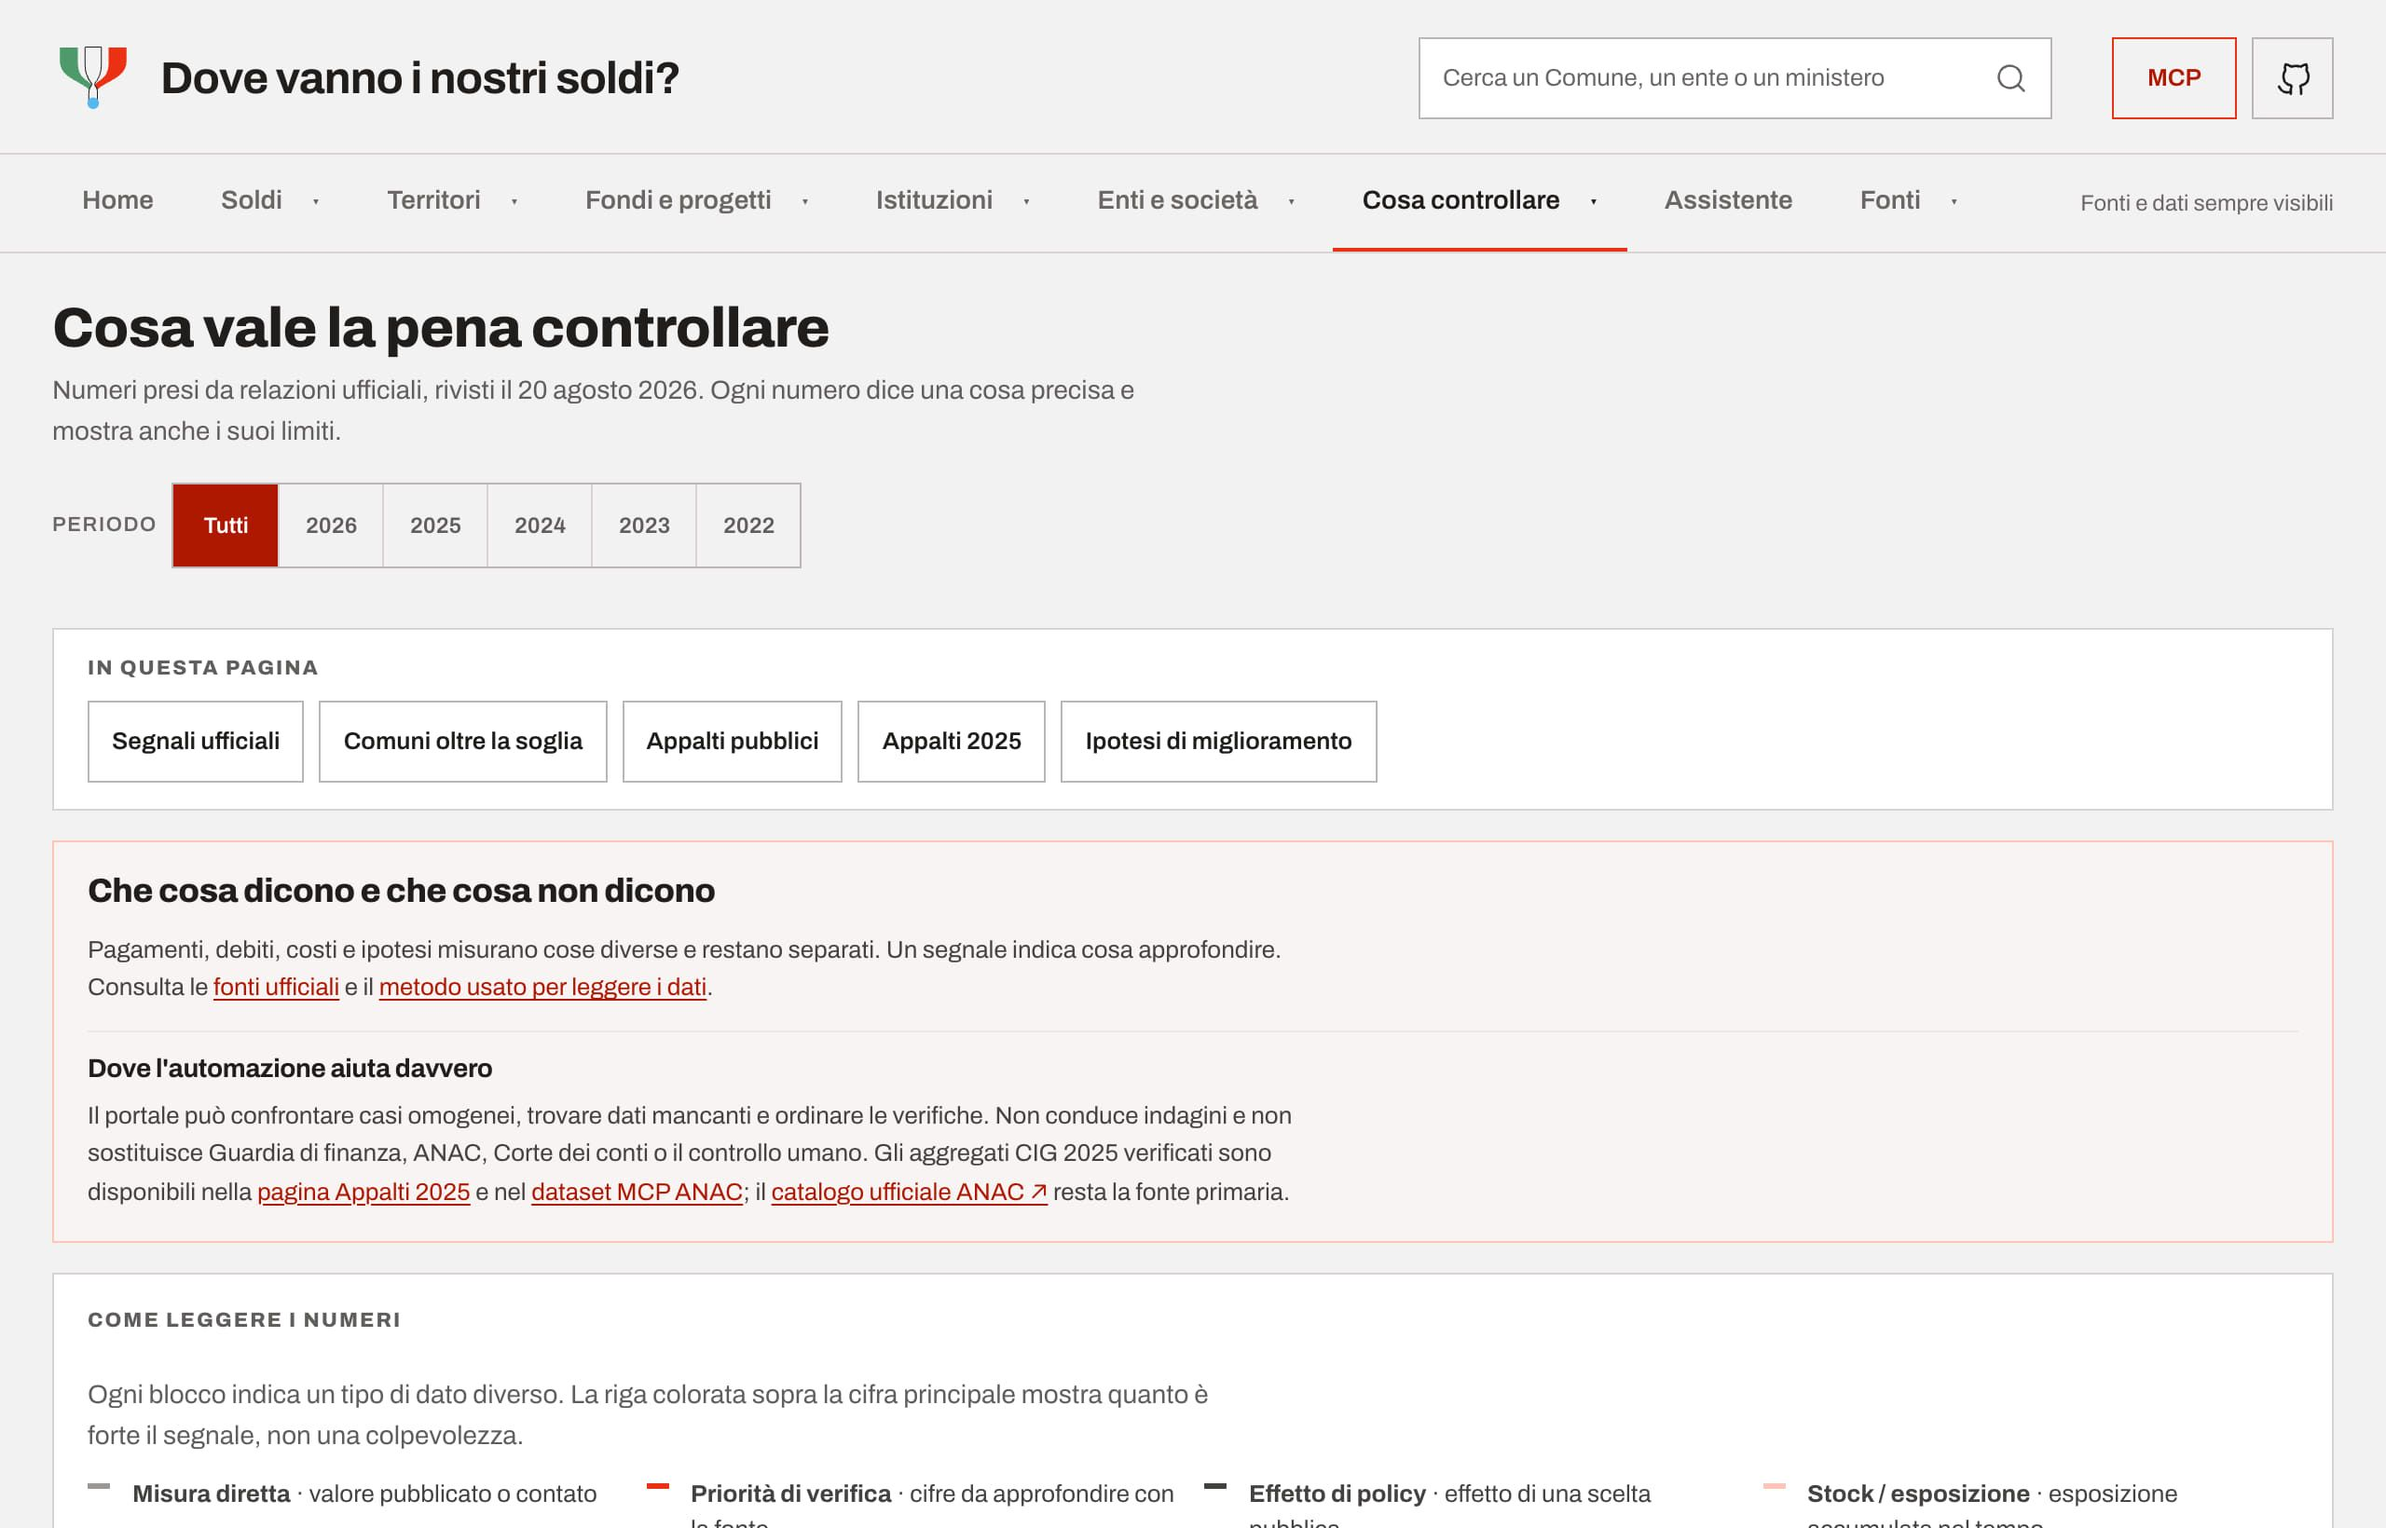
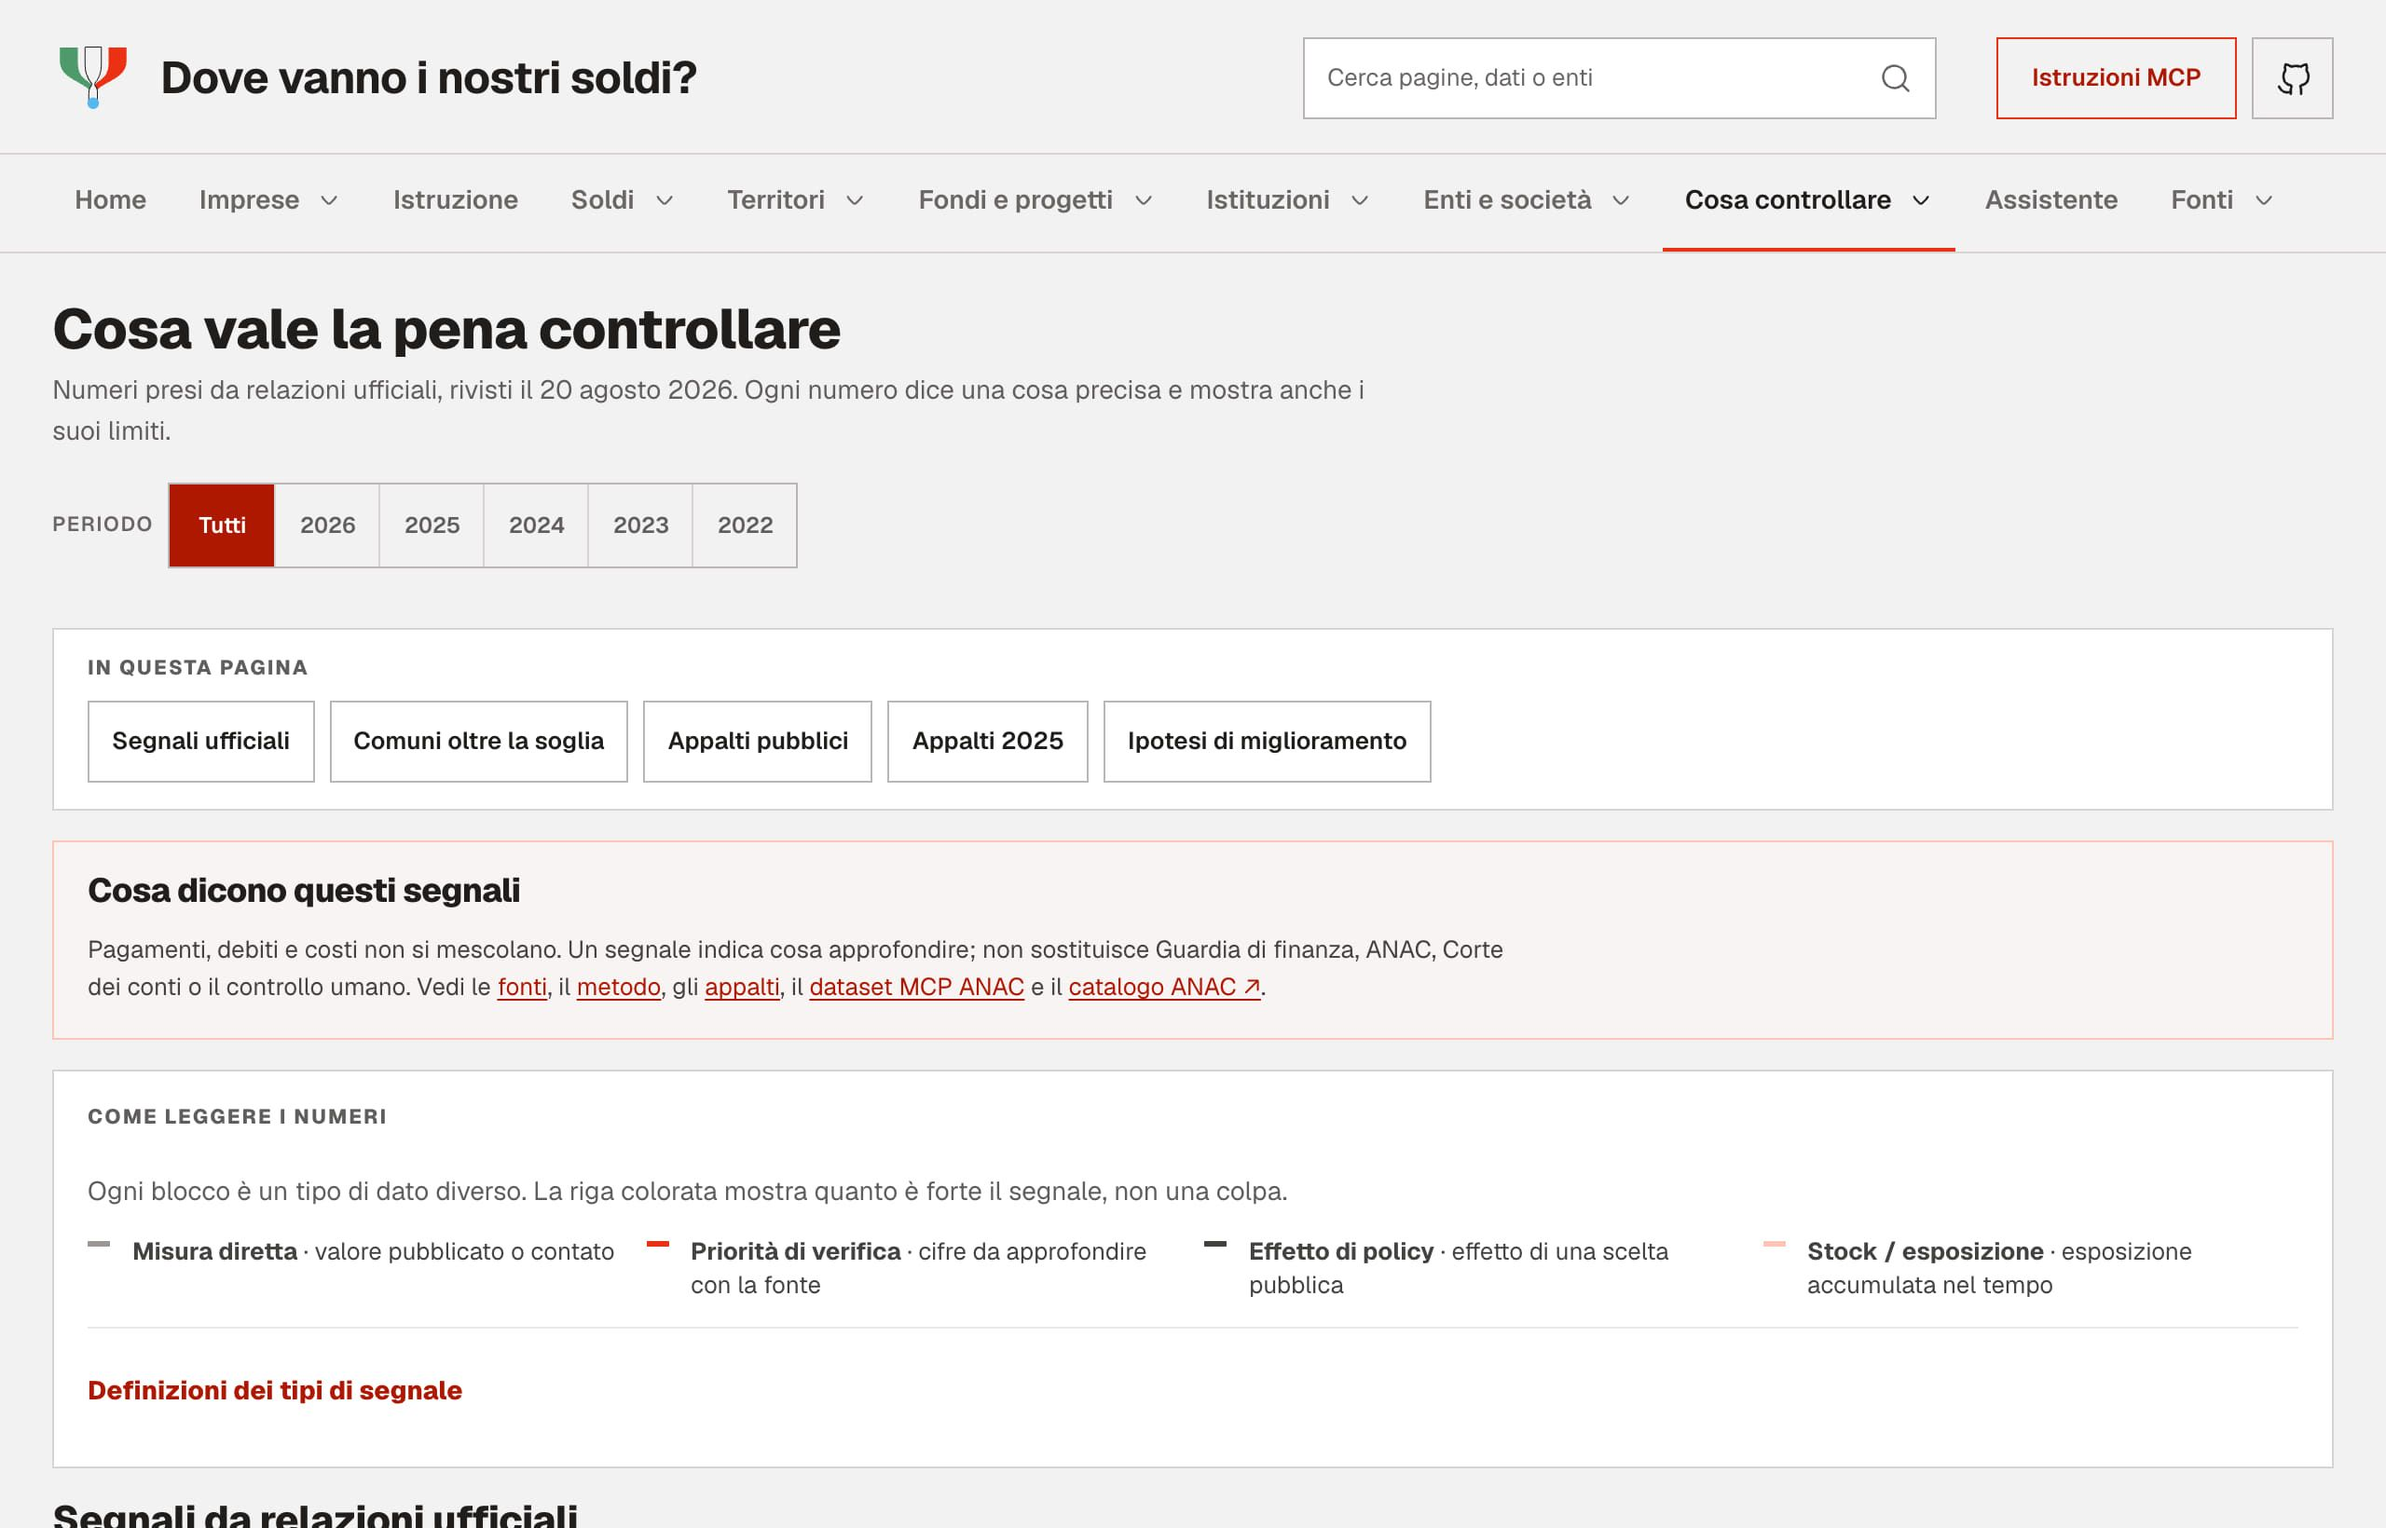
docs: refresh public site overview (#192)

diff --git a/README.md b/README.md
@@ -16,15 +16,22 @@ Il progetto resta indipendente. Un contributo su Buy Me a Coffee aiuta a pagare 
 | --- | --- |
 | ![Territori: pagamenti comunali per regione e per Comune](docs/readme/territori.jpg) | ![Cosa controllare: segnali da fonti ufficiali, con limiti visibili](docs/readme/controlli.jpg) |
 
+| Atlante Istruzione | Confronto Comuni |
+| --- | --- |
+| ![Atlante Istruzione: studenti osservati per Regione, anno e percorso](docs/readme/istruzione.jpg) | ![Confronto Comuni: quattro profili OpenCivitas e tabella territoriale](docs/readme/confronto-territori.jpg) |
+
 ## Cosa trovi sul sito
 
 | Sezione | In sintesi |
 | --- | --- |
 | [Home](https://www.dovevannoinostrisoldi.com/) | Pagamenti dei Comuni, mappa regionale, andamento mensile |
+| [Imprese](https://www.dovevannoinostrisoldi.com/imprese) | Imprese attive, addetti, localizzazioni e fatturato aggregato (ISTAT) |
+| [Istruzione](https://www.dovevannoinostrisoldi.com/istruzione) | Studenti e percorsi della scuola secondaria di II grado per Regione (MIM) |
 | [Soldi](https://www.dovevannoinostrisoldi.com/spese) | Uscite di cassa comunali (SIOPE), mese per mese |
-| [Territori](https://www.dovevannoinostrisoldi.com/territori) | Confronti per regione/Comune, CPT e IRPEF MEF |
+| [Territori](https://www.dovevannoinostrisoldi.com/territori) | Confronti per Regione e Comune, profili OpenCivitas, CPT e IRPEF MEF |
 | [Fondi e progetti](https://www.dovevannoinostrisoldi.com/coesione) | OpenCoesione e traccia PNRR asili (Italia Domani) |
 | [Spese dello Stato](https://www.dovevannoinostrisoldi.com/stato) | Pagamenti per funzione e amministrazione (OpenBDAP/RGS) |
+| [Debito pubblico](https://www.dovevannoinostrisoldi.com/debito) | Stock, detentori, scadenze e interessi (Banca d'Italia ed Eurostat) |
 | [Legge di Bilancio](https://www.dovevannoinostrisoldi.com/spese/legge-di-bilancio) | Stanziamenti per missione e riallocazione ipotetica (OpenBDAP, competenza A1, non cassa) |
 | [Enti e società](https://www.dovevannoinostrisoldi.com/enti) | Indice PA, schede enti, partecipazioni MEF |
 | [Istituzioni](https://www.dovevannoinostrisoldi.com/istituzioni) | Parlamento, sanità, invalidità e altri dossier |
@@ -32,7 +39,7 @@ Il progetto resta indipendente. Un contributo su Buy Me a Coffee aiuta a pagare 
 | [Fonti](https://www.dovevannoinostrisoldi.com/fonti) | Stato dei collegamenti e date di aggiornamento |
 | [Dati](https://www.dovevannoinostrisoldi.com/dati) | Catalogo integrato interrogabile |
 
-Altre viste utili: [sanità](https://www.dovevannoinostrisoldi.com/spese/sanita), [invalidità civile](https://www.dovevannoinostrisoldi.com/spese/invalidita), [partecipazioni](https://www.dovevannoinostrisoldi.com/partecipazioni), [assistente](https://www.dovevannoinostrisoldi.com/assistente).
+Altre viste utili: [confronto Comuni](https://www.dovevannoinostrisoldi.com/territori/confronto), [sanità](https://www.dovevannoinostrisoldi.com/spese/sanita), [invalidità civile](https://www.dovevannoinostrisoldi.com/spese/invalidita), [partecipazioni](https://www.dovevannoinostrisoldi.com/partecipazioni), [assistente](https://www.dovevannoinostrisoldi.com/assistente).
 
 ## Regole in breve
 
